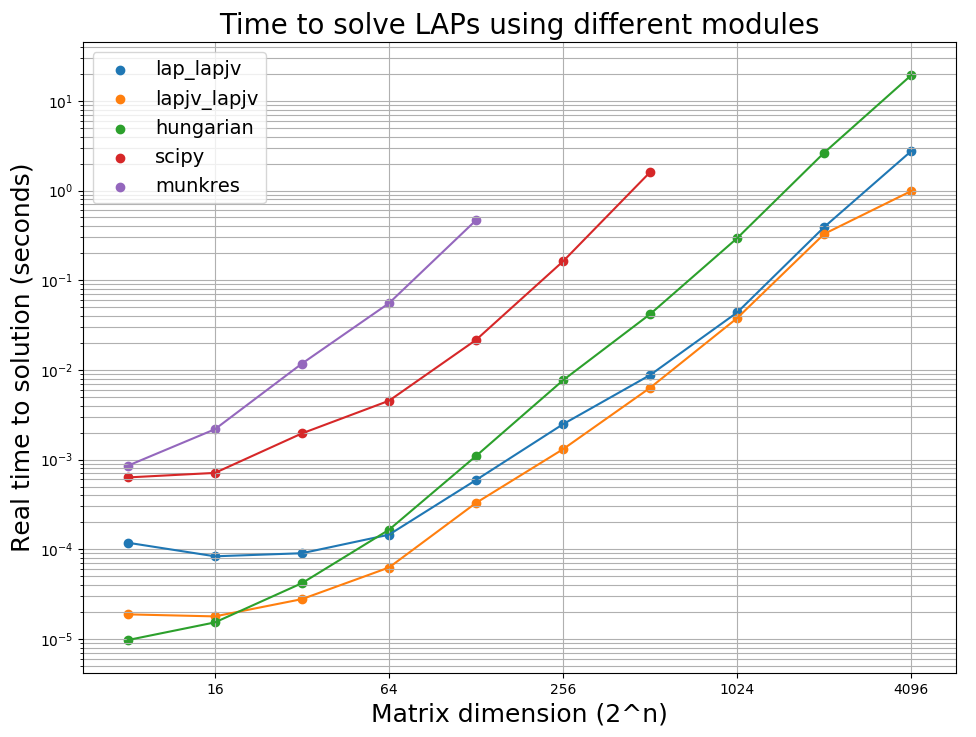
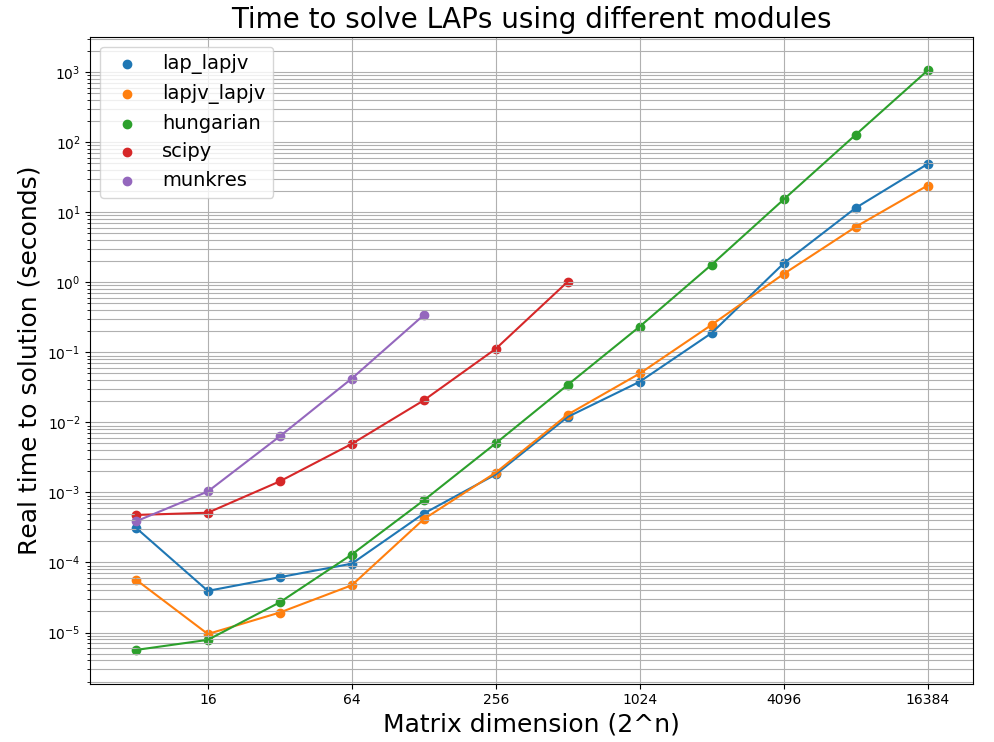
Python3 and cleanup

Changed region(s): [[0.0, 0.0, 0.9836, 0.9986]]

diff --git a/benchmark-lap-solvers-py3.py b/benchmark-lap-solvers-py3.py
@@ -10,6 +10,8 @@
 #   https://github.com/Hrldcpr/Hungarian
 # 4) lap.lapjv - a wrapper to a C++ implementation of Jonker-Volgenant algorithm provided by Tomas Kazmar
 #   https://github.com/gatagat/lap)
+# 5) lapjv.lapjv - a wrapper to a C++ implementation of Jonker-Volgenant algorithm re-written for Python 3 by source{d}
+#    (https://github.com/src-d/lapjv)
 #
 # They all formally have O(n^3) complexity, but their performance differs substantially based on
 # their implementation.
@@ -28,57 +30,46 @@ from matplotlib.ticker import FormatStrFormatter
 
 def main():
 
-    # Parse arguments and provide usage information
-    description = """
-    Benchmarks the performance of linear assignment problem solvers for random cost matrices
-    of different dimensions.
-    """
-    epilog = """
-    The script  will produce the following:
-    1) data of timing for LAP solving random cost matrices of dimensions 2^{min} - 2^{max}
-    2) plot of timing for LAP solving random cost matrices of dimensions 2^{min} - 2^{max}
-    """
-    parser = argparse.ArgumentParser( description=description, formatter_class=argparse.RawDescriptionHelpFormatter,epilog=epilog)
-    parser.add_argument('--min', metavar='min', nargs='?', type=int, default=8, \
-           help='minimum dimension of cost matrix to solve. The default is 8 (2^3 x 2^3)')
-    parser.add_argument('--max', metavar='max', nargs='?', type=int, default=4096, \
-           help='maximum dimension of cost matrix to solve. The default is 4096 (2^12 x 2^12)')
-    parser.add_argument('--ncyc', metavar='n_cycles', nargs='?', type=int, default=3, \
-           help='number of times to solve cost matrices and average their timing. The default is 3 cycles')
-    args = parser.parse_args()
-
-    base = 2                                    # will build matrices of size base^n
+    # METHODS being benchmarked -- Add new METHOD[S] here
+    #methods = ["munkres", "scipy", "hungarian", "lap_lapjv", "lapjv_lapjv"]
+    methods = ["lap_lapjv", "lapjv_lapjv", "hungarian", "scipy", "munkres"]
     min = int(np.ceil(np.log2(args.min)))      # 2^min =  8x8 cost matrix
     max = int(np.ceil(np.log2(args.max)))      # 2^max
+    ncyc = int(args.ncyc)                      # number of cycle 
+    
+    #ncyc = 3     # will run for ncyc and average the timing information
+
+    # LIMITS - add limit for new METHOD[S] here
     # The size of the matrix to be solved is limited to 2^{limit['method']}
     # for each method to ensure quick termination of the benchmarking exercise.
     # unkres and Scipy are considerably slower, making it necessary to limit them to smaller
     # matrices
-
-    # METHODS 
-    methods = ["lap_lapjv", "lapjv_lapjv", "hungarian", "scipy", "munkres"]
     limit = {}
+    limit['munkres'] = 7
+    limit['scipy'] = 9
+    limit['hungarian'] = max
     limit['lap_lapjv'] = max
     limit['lapjv_lapjv'] = max
-    limit['hungarian'] = max
-    limit['scipy'] = 9
-    limit['munkres'] = 7
     print("Solving matrices of sizes up to limit 2^{n} where n is " + str(limit))
-    n_cycles = 3     # will run for n_cycles and average the timing information
+
+    # arrays to store data
     t_methods = ["t_" + i for i in methods]
-    label_methods = ["label_" + i for i in methods]
-    run_methods = ["run_" + i for i in methods]
-    #print methods
     for i in range(len(methods)):
         t_methods[i] = np.empty((0,2),float)
-        #print t_methods[i]
+    label_methods = ["label_" + i for i in methods]
+    run_methods = ["run_" + i for i in methods]
+
+    base = 2                          # will build matrices of size base^n and solve them
+    
+    #for matrices of size 2^{min} - 2^{max}
     for i in range(min,max):
         matrix_size = pow(base,i)
-        print(str(matrix_size) + " x " + str(matrix_size))
+        print(("\n" +  str(matrix_size) + " x " + str(matrix_size) + " ... cycle ") ,end=" ")  
         temp_methods = np.zeros(len(methods),float)
-        for j in range(n_cycles):
+        #Generate n_cyc random matrices and solve them using different methods 
+        for j in range(ncyc):
             cost_matrix = np.random.random((matrix_size, matrix_size))
-            #print "n_cycles = " + str(j)
+            print((str(j) + " "), end=" ")  
             for method in range(len(methods)):
                 #print '%20s\t' %(methods[method])
                 if methods[method] == 'munkres' and i <= limit[methods[method]]:
@@ -96,28 +87,35 @@ def main():
                 elif methods[method] == 'lapjv_lapjv' and i <= limit[methods[method]]:
                     temp_methods[method] += run_lapjv_lapjv(cost_matrix)
                     #print temp_methods[method]
+                    # If you want to benchmark a new METHOD, add another ELIF statement here
                 else:
                     pass
 
-        # average the timing information from n_cycles
+        # average the timing information from n_cyc cycles
         for method in range(len(methods)):
             if temp_methods[method] != 0:   # to make sure there is timing information
-                t_methods[method] = np.append(t_methods[method], np.array([[matrix_size, temp_methods[method]/n_cycles]]), axis=0)
+                t_methods[method] = np.append(t_methods[method], np.array([[matrix_size, temp_methods[method]/ncyc]]), axis=0)
 
     # print timing information to screen
-    np.set_printoptions(suppress=True,precision=5)
-    print('%10s '  % ("Matrix size"), end=" ")
-    x=t_methods[0][:,[0]]
-    x=x.flatten()
-    print(x)
+    dimensions=t_methods[0][:,[0]]
+    dimensions=dimensions.flatten()
+    print("\n")
+    print("%10s "  % ("Matrix_size"), end=" ")
+    np.set_printoptions(suppress=True,precision=5,linewidth=100)
+    for i in range(len(dimensions)):
+        print('%6d '  % (dimensions[i]), end=" ")
+    print(" ")
+    
+    np.set_printoptions(suppress=True,precision=5,linewidth=100)
     for method in range(len(methods)):
-        print('%10s '  % ( methods[method]),end=" ")
-        y=t_methods[method][:,[1]]
-        y=y.flatten()
-        print(y)
+        print('%10s '  % ( methods[method]), end=" ") 
+        timings=t_methods[method][:,[1]]
+        timings=timings.flatten()
+        print(timings)
 
-    # generate plot
+    # generate a plot
     fig, ax = plt.subplots()
+    
     for method in range(len(methods)):
         plt.scatter(t_methods[method][:,[0]],t_methods[method][:,[1]],label=methods[method])
         plt.loglog(t_methods[method][:,[0]],t_methods[method][:,[1]],basex=2,basey=10)
@@ -131,7 +129,7 @@ def main():
     plt.show()
 
 # Solve LAP using different methods
-#LAP.LAPJV
+#LAPJV
 def run_lap_lapjv(matrix):
     t_start=time.time()
     cost, x, y = lap.lapjv(matrix)
@@ -172,5 +170,31 @@ def run_munkres(matrix):
     t_end=time.time()
     return t_end-t_start
 
+#NEW METHOD
+#Add function run_METHOD to get timing for method that method
+
 if __name__ == "__main__":
+ 
+    # Parse arguments and provide usage information
+    description = """
+    Benchmarks the performance of linear assignment problem solvers for random cost matrices
+    of different dimensions.
+    """
+    epilog = """
+    The script  will produce the following:
+    1) data of timing for LAP solving random cost matrices of dimensions 2^{min} - 2^{max}
+    2) plot of timing for LAP solving random cost matrices of dimensions 2^{min} - 2^{max}
+    """
+    parser = argparse.ArgumentParser( description=description, formatter_class=argparse.RawDescriptionHelpFormatter,epilog=epilog)
+    parser.add_argument('--min', metavar='min', nargs='?', type=int, default=8, \
+           help='minimum dimension of cost matrix to solve. \
+           The default is 8 (2^3 x 2^3)')
+    parser.add_argument('--max', metavar='max', nargs='?', type=int, default=4096, \
+           help='maximum dimension of cost matrix to solve. \
+           The default is 4096 (2^12 x 2^12)')
+    parser.add_argument('--ncyc', metavar='ncyc', nargs='?', type=int, default=3, \
+           help='number of times to solve cost matrices and average their timing. \
+           The default is 3 cycles')
+    args = parser.parse_args()
+
     main()

diff --git a/benchmark-lap-solvers-py2.py b/benchmark-lap-solvers-py2.py
@@ -27,54 +27,45 @@ from matplotlib.ticker import FormatStrFormatter
 
 def main():
 
-    # Parse arguments and provide usage information
-    description = """
-    Benchmarks the performance of linear assignment problem solvers for random cost matrices
-    of different dimensions.
-    """
-    epilog = """
-    The script  will produce the following:
-    1) data of timing for LAP solving random cost matrices of dimensions 2^{min} - 2^{max}
-    2) plot of timing for LAP solving random cost matrices of dimensions 2^{min} - 2^{max}
-    """
-    parser = argparse.ArgumentParser( description=description, formatter_class=argparse.RawDescriptionHelpFormatter,epilog=epilog)
-    parser.add_argument('--min', metavar='min', nargs='?', type=int, default=8, \
-           help='minimum dimension of cost matrix to solve. The default is 8 (2^3 x 2^3)')
-    parser.add_argument('--max', metavar='max', nargs='?', type=int, default=4096, \
-           help='maximum dimension of cost matrix to solve. The default is 4096 (2^12 x 2^12)')
-    parser.add_argument('--ncyc', metavar='n_cycles', nargs='?', type=int, default=3, \
-           help='number of times to solve cost matrices and average their timing. The default is 3 cycles')
-    args = parser.parse_args()
-
-    base = 2                                    # will build matrices of size base^n
+    # METHODS being benchmarked -- Add new METHOD[S] here
+    methods = ["lap_lapjv", "hungarian", "scipy", "munkres"]
     min = int(np.ceil(np.log2(args.min)))      # 2^min =  8x8 cost matrix
     max = int(np.ceil(np.log2(args.max)))      # 2^max
+    ncyc = int(args.ncyc)                      # number of cycle 
+    
+    #ncyc = 3     # will run for ncyc and average the timing information
+
+    # LIMITS - add limit for new METHOD[S] here
     # The size of the matrix to be solved is limited to 2^{limit['method']}
     # for each method to ensure quick termination of the benchmarking exercise.
     # unkres and Scipy are considerably slower, making it necessary to limit them to smaller
     # matrices
-    methods = ["lap_lapjv", "hungarian", "scipy", "munkres"]
     limit = {}
     limit['lap_lapjv'] = max
     limit['hungarian'] = max
     limit['scipy'] = 9
     limit['munkres'] = 7
     print "Solving matrices of sizes up to limit 2^{n} where n is " + str(limit)
-    n_cycles = 3     # will run for n_cycles and average the timing information
+
+    # arrays to store data
     t_methods = ["t_" + i for i in methods]
-    label_methods = ["label_" + i for i in methods]
-    run_methods = ["run_" + i for i in methods]
-    #print methods
     for i in range(len(methods)):
         t_methods[i] = np.empty((0,2),float)
-        #print t_methods[i]
+    label_methods = ["label_" + i for i in methods]
+    run_methods = ["run_" + i for i in methods]
+
+    base = 2                          # will build matrices of size base^n and solve them
+    
+    #for matrices of size 2^{min} - 2^{max}
     for i in range(min,max):
         matrix_size = pow(base,i)
-        print str(matrix_size) + " x " + str(matrix_size)
+        print"\n" +  str(matrix_size) + " x " + str(matrix_size) + " ... ", 
         temp_methods = np.zeros(len(methods),float)
-        for j in range(n_cycles):
+        print "cycle ",
+        #Generate n_cyc random matrices and solve them using different methods 
+        for j in range(ncyc):
             cost_matrix = np.random.random((matrix_size, matrix_size))
-            #print "n_cycles = " + str(j)
+            print str(j) + " ",  
             for method in range(len(methods)):
                 #print '%20s\t' %(methods[method])
                 if methods[method] == 'munkres' and i <= limit[methods[method]]:
@@ -89,43 +80,35 @@ def main():
                 elif methods[method] == 'lap_lapjv' and i <= limit[methods[method]]:
                     temp_methods[method] += run_lap_lapjv(cost_matrix)
                     #print temp_methods[method]
+                    # If you want to benchmark a new METHOD, add another ELIF statement here
                 else:
                     pass
 
-        # average the timing information from n_cycles
+        # average the timing information from n_cyc cycles
         for method in range(len(methods)):
             if temp_methods[method] != 0:   # to make sure there is timing information
-                t_methods[method] = np.append(t_methods[method], np.array([[matrix_size, temp_methods[method]/n_cycles]]), axis=0)
+                t_methods[method] = np.append(t_methods[method], np.array([[matrix_size, temp_methods[method]/ncyc]]), axis=0)
 
     # print timing information to screen
-    np.set_printoptions(suppress=True,precision=5)
-    print '%10s '  % ("Matrix size"),
-    x=t_methods[0][:,[0]]
-    x=x.flatten()
-    print x
+    dimensions=t_methods[0][:,[0]]
+    dimensions=dimensions.flatten()
+    print("\n")
+    print "%10s "  % ("Matrix_size"),
+    np.set_printoptions(suppress=True,precision=5,linewidth=100)
+    for i in range(len(dimensions)):
+        print '%6d '  % (dimensions[i]),
+    print(" ")
+    
+    np.set_printoptions(suppress=True,precision=5,linewidth=100)
     for method in range(len(methods)):
         print '%10s '  % ( methods[method]),
-        y=t_methods[method][:,[1]]
-        y=y.flatten()
-        print(y)
+        timings=t_methods[method][:,[1]]
+        timings=timings.flatten()
+        print(timings)
 
-    # generate plot
+    # generate a plot
     fig, ax = plt.subplots()
     for method in range(len(methods)):
-        '''
-        # Fit timing information to get a sense of the real scaling
-        #print methods[method]
-        #print t_methods[method]
-        x=t_methods[method][:,[0]]
-        x=x.flatten()
-        #print x
-        y=t_methods[method][:,[1]]
-        y=y.flatten()
-        #print y
-        popt, pcov = curve_fit(lambda t,a,b: a+b*t, np.log(x), np.log(y))
-        label_methods[method] = str(methods[method]) + ' scaling = ' + str(round(popt[1],2))
-        plt.scatter(t_methods[method][:,[0]],t_methods[method][:,[1]],label=label_methods[method])
-        '''
         plt.scatter(t_methods[method][:,[0]],t_methods[method][:,[1]],label=methods[method])
         plt.loglog(t_methods[method][:,[0]],t_methods[method][:,[1]],basex=2,basey=10)
 
@@ -171,5 +154,31 @@ def run_munkres(matrix):
     t_end=time.time()
     return t_end-t_start
 
+#NEW METHOD
+#Add function run_METHOD to get timing for method that method
+
 if __name__ == "__main__":
+ 
+    # Parse arguments and provide usage information
+    description = """
+    Benchmarks the performance of linear assignment problem solvers for random cost matrices
+    of different dimensions.
+    """
+    epilog = """
+    The script  will produce the following:
+    1) data of timing for LAP solving random cost matrices of dimensions 2^{min} - 2^{max}
+    2) plot of timing for LAP solving random cost matrices of dimensions 2^{min} - 2^{max}
+    """
+    parser = argparse.ArgumentParser( description=description, formatter_class=argparse.RawDescriptionHelpFormatter,epilog=epilog)
+    parser.add_argument('--min', metavar='min', nargs='?', type=int, default=8, \
+           help='minimum dimension of cost matrix to solve. \
+           The default is 8 (2^3 x 2^3)')
+    parser.add_argument('--max', metavar='max', nargs='?', type=int, default=4096, \
+           help='maximum dimension of cost matrix to solve. \
+           The default is 4096 (2^12 x 2^12)')
+    parser.add_argument('--ncyc', metavar='ncyc', nargs='?', type=int, default=3, \
+           help='number of times to solve cost matrices and average their timing. \
+           The default is 3 cycles')
+    args = parser.parse_args()
+
     main()

diff --git a/README.md b/README.md
@@ -97,22 +97,27 @@ Matrix size  [   8      16       32      64     128     256     512     1024    
 
 ## Python3
 <pre>
-8 x 8
-16 x 16
-32 x 32
-64 x 64
-128 x 128
-256 x 256
-512 x 512
-1024 x 1024
-2048 x 2048
-4096 x 4096
-Matrix size  [   8.     16.     32.     64.   128.    256.    512.    1024.   2048.   4096.]
-lap_lapjv    [0.00012 0.00008 0.00009 0.00015 0.00059 0.00248 0.00876 0.0437  0.39184 2.75649]
-lapjv_lapjv  [0.00002 0.00002 0.00003 0.00006 0.00033 0.00131 0.00631 0.03779 0.32826 0.98762]
-hungarian    [0.00001 0.00002 0.00004 0.00016 0.0011  0.00767 0.04187 0.29449 2.64505 19.34723]
-    scipy    [0.00063 0.00071 0.00196 0.00452 0.02158 0.16243 1.6046 ]
-  munkres    [0.00085 0.00217 0.01174 0.05538 0.46658]
+Solving matrices of sizes up to limit 2^{n} where n is {'munkres': 7, 'scipy': 9, 'hungarian': 15, 'lap_lapjv': 15, 'lapjv_lapjv': 15}
+
+8 x 8 ... cycle  0  1  2
+16 x 16 ... cycle  0  1  2
+32 x 32 ... cycle  0  1  2
+64 x 64 ... cycle  0  1  2
+128 x 128 ... cycle  0  1  2
+256 x 256 ... cycle  0  1  2
+512 x 512 ... cycle  0  1  2
+1024 x 1024 ... cycle  0  1  2
+2048 x 2048 ... cycle  0  1  2
+4096 x 4096 ... cycle  0  1  2
+8192 x 8192 ... cycle  0  1  2
+16384 x 16384 ... cycle  0  1  2
+
+Matrix_size       8      16      32       64      128       256       512     1024     2048     4096      8192     16384
+ lap_lapjv   [0.00031  0.00004  0.00006  0.0001   0.0005   0.00181  0.01198  0.03803  0.18864  1.85925  11.50524   48.73192]
+lapjv_lapjv  [0.00006  0.00001  0.00002  0.00005  0.00042  0.00192  0.01294  0.04984  0.24718  1.31449   6.16797   24.03292]
+ hungarian   [0.00001  0.00001  0.00003  0.00013  0.00077  0.00503  0.03432  0.23316  1.78575 15.18274 127.31623 1055.05817]
+     scipy   [0.00048  0.00051  0.00144  0.00493  0.02063  0.11216  1.01937]
+   munkres   [0.00039  0.00103  0.00633  0.04225  0.34005]
 </pre>
 
 ![alt text](images/figure-py3.png "Python3 benchmark test")
